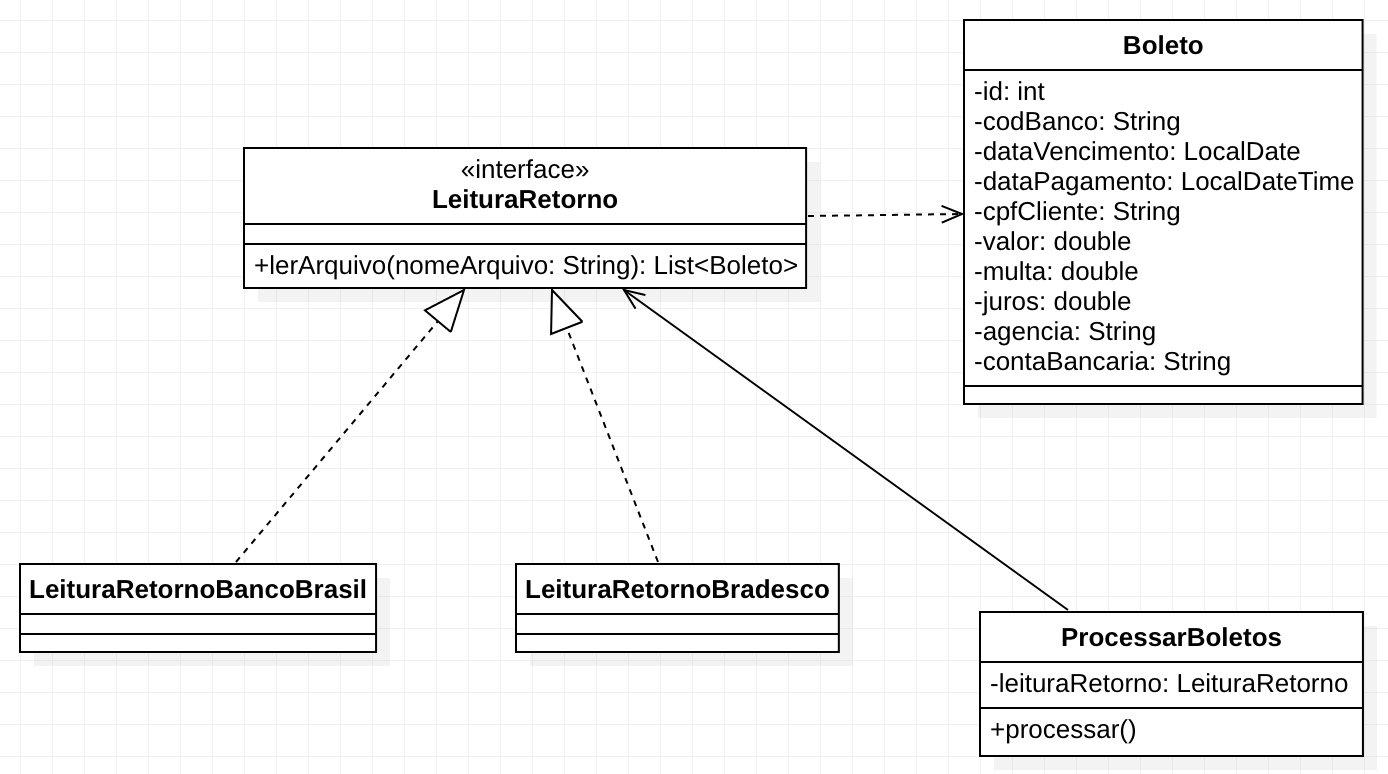
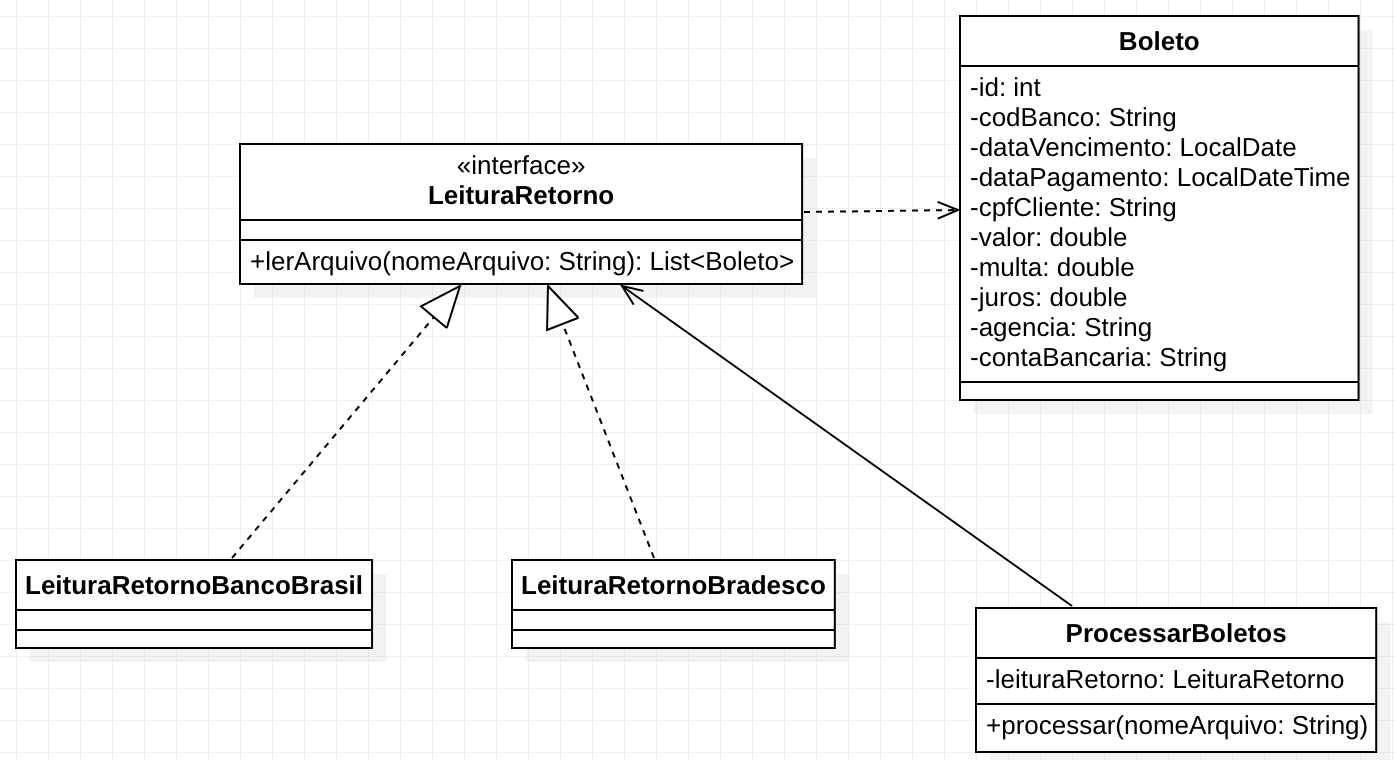
Atualiza diagramas e documentação do exemplo de retorno de boleto

diff --git a/strategy/retorno-boleto/src/main/java/com/manoelcampos/retornoboleto/ProcessarBoletos.java b/strategy/retorno-boleto/src/main/java/com/manoelcampos/retornoboleto/ProcessarBoletos.java
@@ -22,6 +22,15 @@ public class ProcessarBoletos {
         this.leituraRetorno = leituraRetorno;
     }
 
+    /**
+     * Realiza de fato o processamento de um dado arquivo de retorno de boleto bancário,
+     * utilizando uma estratégia definida em {@link #leituraRetorno}.
+     * Este método pode realizar diversas operações após a leitura do arquivo,
+     * como gravar dados em um banco, enviar emails de notificação, etc.
+     * Neste caso, por simplificação, estamos apenas imprimindo os dados no terminal.
+     *
+     * @param nomeArquivo Nome do arquivo a ser lido
+     */
     public void processar(String nomeArquivo){
         System.out.println("Boletos");
         System.out.println("----------------------------------------------------------------------------------");
@@ -31,6 +40,10 @@ public class ProcessarBoletos {
         }
     }
 
+    /**
+     * Altera a estratégia a ser utilizada para leitura de arquivos de retorno de boletos bancários.
+     * @param leituraRetorno nova estratégia a ser utilizada
+     */
     public void setLeituraRetorno(LeituraRetorno leituraRetorno) {
         this.leituraRetorno = leituraRetorno;
     }
